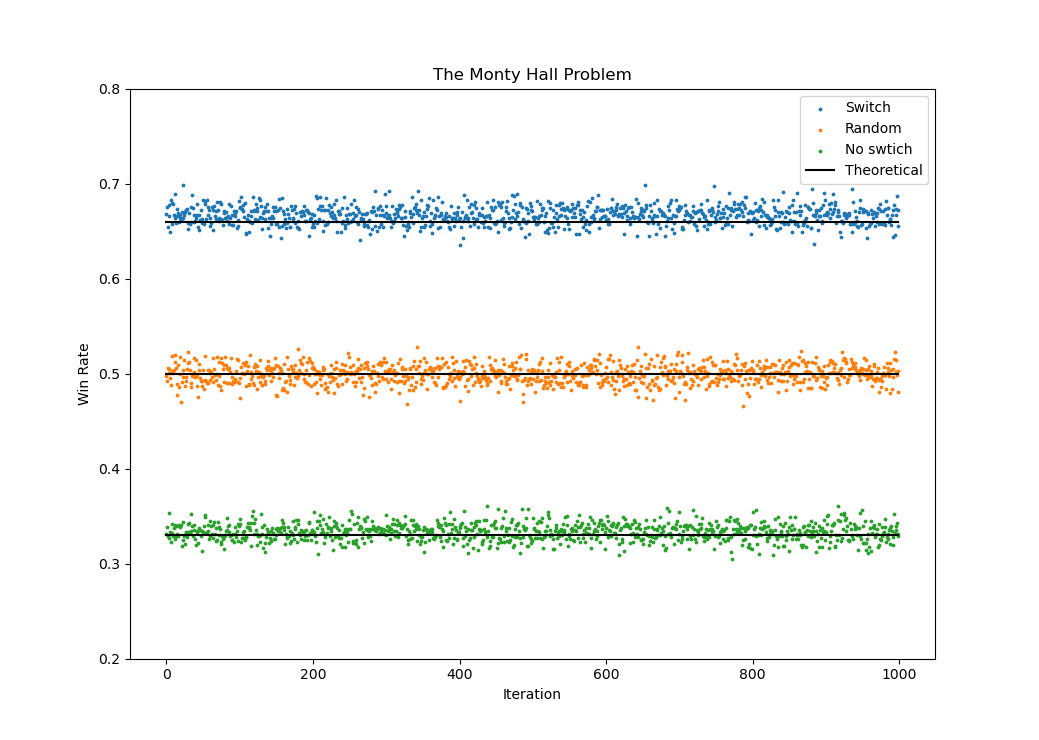
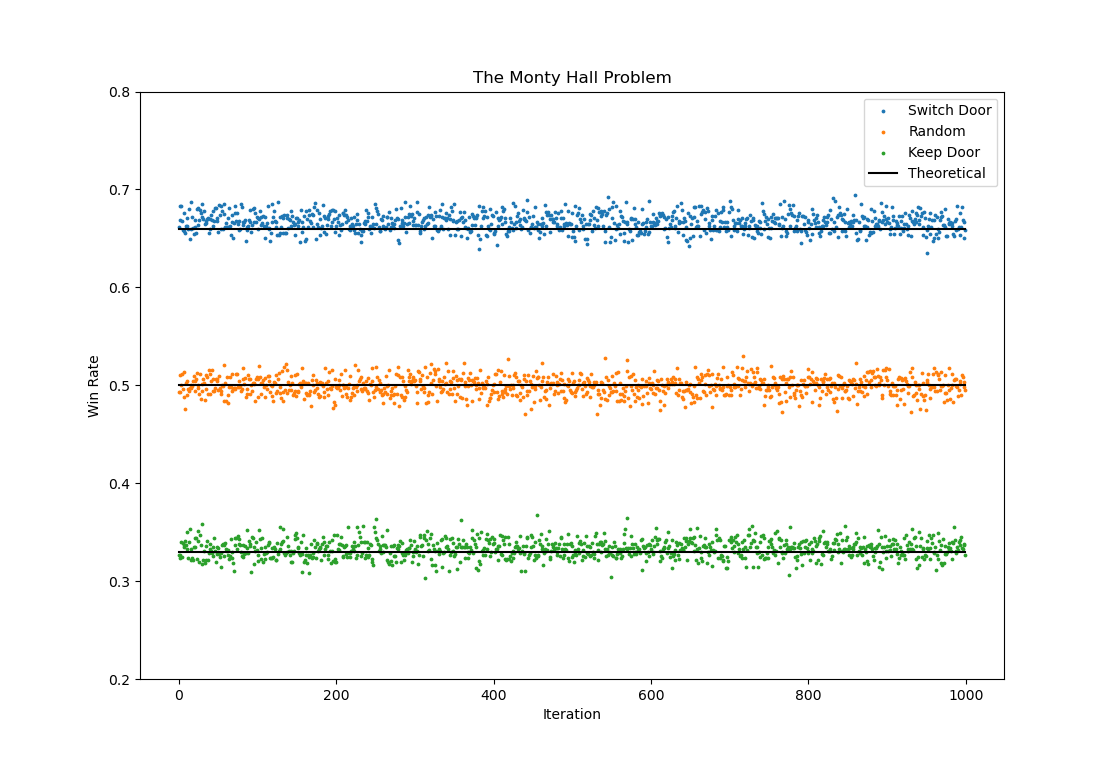
monty hall

diff --git a/sim.py b/sim.py
@@ -66,7 +66,7 @@ def construct_visualization(switch, rand, no_switch):
 
     x = np.array(x_values)
     y = np.array(switch)
-    plt.scatter(x, y, POINT_SIZE, label="Switch")
+    plt.scatter(x, y, POINT_SIZE, label="Switch Door")
     plt.plot(x, generate_np_array(0.33), color="black")
 
     x = np.array(x_values)
@@ -76,7 +76,7 @@ def construct_visualization(switch, rand, no_switch):
 
     x = np.array(x_values)
     y = np.array(no_switch)
-    plt.scatter(x, y, POINT_SIZE, label="No swtich")
+    plt.scatter(x, y, POINT_SIZE, label="Keep Door")
     plt.plot(x, generate_np_array(0.66), color="black", label="Theoretical")
 
     plt.legend(loc="upper right")
